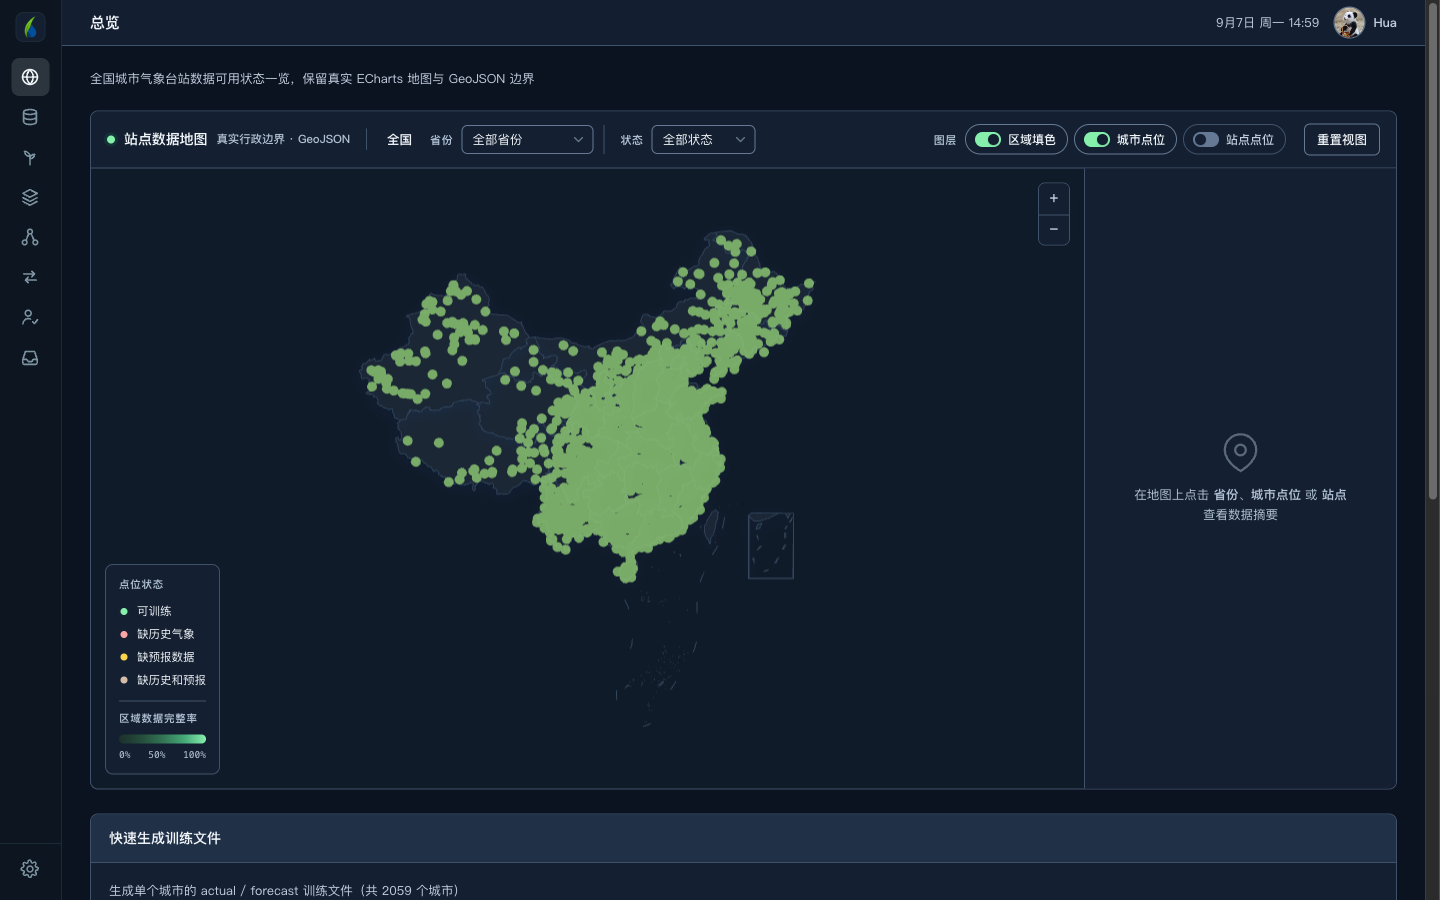
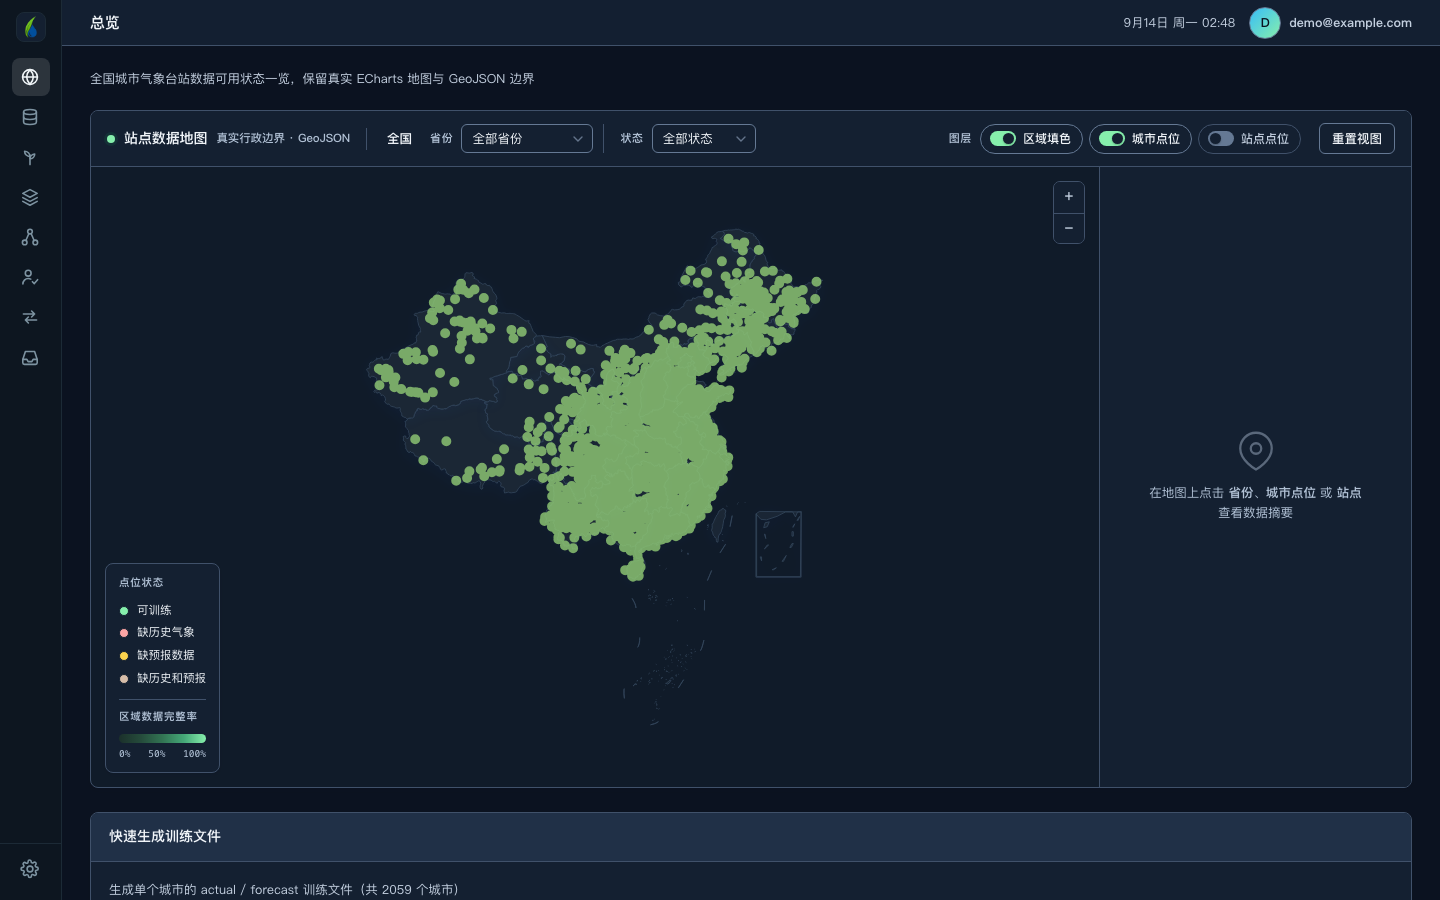
README：v1.0.3 功能说明与截图更新
Claude-Session: https://claude.ai/code/session_01J93EXCLc9bKMHBVUebiUPE

diff --git a/README.md b/README.md
@@ -20,6 +20,17 @@
 
 ---
 
+## v1.0.3 更新了什么
+
+- 训练可选两种模型
+- 人在回路可下载策略表（Excel）
+- 迁移学习更贴近本站
+- 浅色模式更完整
+- 导航顺序调整
+- 水分胁迫天数统计调整
+
+---
+
 ## 它解决什么问题
 
 稻田管水的核心是一个数：**田面水层深度**。它必须待在适宜区间内——低了缺水影响灌浆，高了淹水伤根系、影响成穗。
@@ -32,7 +43,7 @@
 
 # 怎么用
 
-下面按实际使用顺序走一遍。
+下面按实际使用顺序走一遍，左侧导航从上到下基本就是这个顺序。
 
 ## 第一步 · 总览：看哪些站点能训练
 
@@ -48,26 +59,43 @@
 
 ---
 
-## 第二步 · 生成训练数据
+## 第二步 · 生育期方案：定好每个阶段的水层
 
-确认站点有数据后，在总览下方生成训练文件。
+模型怎么管水，取决于每个生育期的水层参数。**生育期方案**页维护这些参数，一个方案对应一个地区、一个品种、一季稻。
+
+<div align="center">
+<img src="docs/screenshots/04-生育期方案.png" width="880" alt="生育期方案">
+</div>
+
+每个阶段包括：
+
+| 参数 | 含义 |
+|---|---|
+| 开始 / 结束 | 阶段起止日期（月/日） |
+| hmin / hmax | 适宜水层下限 / 上限（mm）：低于 hmin 需要灌水，灌到 hmax 为止 |
+| Hp | 雨后蓄水上限，超过应排水 |
+| Hc | 受涝警戒水层，超过会影响产量 |
+| Kc | 作物系数，用来计算作物需水 |
+| λ | 该阶段对缺水的敏感程度；晒田、黄熟落干期为 0 |
+
+- 阶段名称从下拉框选择（返青期、分蘖早期……），同一方案里已有的阶段不能重复添加。
+- 「AI 生成基准参数」可以按地点和作物先生成一版参考值，再手动修改。
+
+---
+
+## 第三步 · 生成训练数据
+
+选好站点和生育期方案后，在总览下方生成训练文件。
 
 <div align="center">
 <img src="docs/screenshots/02-数据生成.png" width="880" alt="数据生成">
 </div>
 
-**两种增广方式**，按需选择：
-
-| 方式 | 做法 | 适用 |
-|---|---|---|
-| **简单干湿增广** | 对真实年做 11 种情景变换（原样、+1～+5 mm、÷2～÷10） | 快速扩样，保持真实序列骨架 |
-| **Richardson WGEN** | 按历史生育季拟合逐月干湿日转移概率，湿日雨量用 Gamma 分布，ET₀ 按历日均值与变异合成 | 需要更多独立气象序列时 |
+训练数据统一用 **Richardson WGEN 天气发生器**生成：按站点全部历史生育季拟合逐月干湿日转移概率、湿日雨量（Gamma 分布）和 ET₀，合成大量独立的气象序列用于训练。历史真实年份单独保留，**只用来评估，不进入训练**。
 
 **支持多站点同时生成**。在「批量生成」区连续输入站名添加到列表，一次提交，后台排队处理，进度实时可见。2059 个城市任选。
 
----
-
-## 第三步 · 检查生成报告
+### 检查生成报告
 
 生成完到**数据生成**页核对，确认无误再拿去训练。
 
@@ -75,26 +103,56 @@
 <img src="docs/screenshots/03-生成报告.png" width="880" alt="生成报告">
 </div>
 
-每条记录都标明用的哪种增广、原始多少行、扩增后多少行、有多少缺失。可下载的文件包括：
+每条记录都标明原始多少行、训练用多少行、有多少缺失。可下载的文件包括：
 
-- `训练actual` / `训练forecast` —— 增广后的训练数据
-- `评估actual` / `评估forecast` —— 未经增广的真实序列，用于逐年评估
+- `训练actual` / `训练forecast` —— WGEN 合成的训练数据
+- `评估actual` / `评估forecast` —— 未经合成的真实序列，用于逐年评估
 - `growth_para` —— 生育期参数
-- `生成统计` / `方法说明` / `missing` —— 年份覆盖率、增广方法记录、缺失明细
-- WGEN 方式额外产出 `WGEN参数`（逐月拟合参数）
+- `生成统计` / `方法说明` / `missing` —— 年份覆盖率、生成方法记录、缺失明细
+- `WGEN参数` —— 逐月拟合参数
 
 **重点看 `missing` 和年份覆盖率**。某年覆盖率不足 70% 时软件会提示，可以在生成时勾掉那些年份。
 
 ---
 
-## 第四步 · 训练模型并查看结果
+## 第四步 · 历史数据：补录或下载气象数据
 
-数据没问题后进**智能决策**，选批次、设训练轮数（2000 / 5000 / 8000 或自填）和随机种子，启动 PPO 训练。
+<div align="center">
+<img src="docs/screenshots/05-历史数据.png" width="880" alt="历史数据">
+</div>
+
+- **上传录入**：下载模板，按 `Station/date/T/Tmax/Tmin/RH/P/u10/n`（或对应的中文表头：区站号、日期、平均气温……）填好后上传。新台站首次导入需要填经纬度和海拔，系统会据此计算 ET₀。
+- 重复导入同一台站同一日期会更新原记录，不会生成重复行。
+
+---
+
+## 第五步 · 训练模型：稳产模型与节水模型
+
+数据没问题后进**智能决策**，选批次和**模型类型**，设训练轮数（2000 / 5000 / 8000 或自填）和随机种子，启动 PPO 训练。
+
+<div align="center">
+<img src="docs/screenshots/06-训练与模型库.png" width="880" alt="训练与模型库">
+</div>
+
+| 模型类型 | 适合 | 特点 |
+|---|---|---|
+| **稳产模型**（默认） | 优先保证产量 | 严格守住适宜水层，灌溉次数相对多、每次水量相对少 |
+| **节水模型** | 希望省水、少下田操作 | 奖励里对每次灌排操作和用水量扣分，倾向于少次、每次多灌，总用水更少 |
+
+两种模型只是奖励不同，其他训练设置完全一样。以武汉晚稻（泰优398）为例，训练 5000 回合、用历史真实年份逐年评估的平均值：
+
+| | 灌水量 | 排水量 | 灌溉次数 | 缺水风险因子 |
+|---|---|---|---|---|
+| 固定水层规则 | 293 mm | 178 mm | 8.0 次 | 100% |
+| 稳产模型 | 259 mm | 99 mm | 7.4 次 | 100% |
+| 节水模型 | 224 mm | 67 mm | 4.1 次 | 100% |
+
+> 不同站点效果会有差别，建议两种都训练，在整季评估里比较后再选用。
 
 > **这一步建议用本地软件。** 网页版的训练跑在服务器上，多人同时训练会排队；本地软件用你自己电脑的算力。5000 回合在普通笔记本上约需十几分钟。
 
 <div align="center">
-<img src="docs/screenshots/04-训练与评估.png" width="880" alt="训练与评估">
+<img src="docs/screenshots/08-训练评估.png" width="880" alt="训练结果与评估">
 </div>
 
 训练全过程可视：
@@ -102,56 +160,87 @@
 - **奖励曲线** —— 逐回合回报、平滑曲线、历史最高
 - **操作次数曲线** —— 灌排动作次数随训练下降的过程
 - **收敛诊断** —— 末段斜率、平滑带宽、前后百回合对比，自动判断是否趋于稳定
-- **策略对比** —— 十余项指标与固定水层规则并排：灌溉量、排水量、灌排次数、降雨利用率、缺水产量影响风险因子、超 Hc 天数与深度–日积分、管理水量等，每项标出相对变化
+- **策略对比** —— 十余项指标与固定水层规则并排：灌溉量、排水量、灌排次数、降雨利用率、缺水风险因子、水分胁迫天数、超 Hc 天数与深度–日积分、管理水量等，每项标出相对变化；可在 best / final 模型之间切换
 
-**结果的应用与下载**：训练好的模型进入模型库，点「部署best」即可用于实时决策；可下载 `best` / `final` 权重、逐日评估 CSV、图表 PNG，以及一份完整的 **Word 训练报告**。
+**结果的应用与下载**：训练好的模型进入模型库，可「部署best」或「部署final」用于实时决策；可下载 `best` / `final` 权重、逐日评估 CSV、图表图片，以及一份完整的 **Word 训练报告**。
 
-**智能助手**：右下角的对话框可就农田水利问题提问，支持拖拽上传文档。普通研究员账号每天 3 次。
+**智能助手**：页面里的对话框可就农田水利、天气、灌溉决策提问，支持上传附件。
 
 ---
 
-## 第五步 · 没有数据的地方怎么办：迁移学习
+## 第六步 · 智能决策引擎：今天该怎么灌
 
-不是每个站点都有完整的历史气象。**迁移学习**页解决这个问题——内置全国六大稻作区（华南 / 华中 / 西南高原 / 华北 / 东北 / 西北）的 18 个预训练权重，**不用训练直接出决策**。
+部署模型后，下面的**智能决策引擎**就用这个模型出建议：填当前田面水层，选生育期方案和阶段，填未来七天天气（也可以输入城市自动导入预报），点「生成建议」。
 
 <div align="center">
-<img src="docs/screenshots/05-迁移学习决策.png" width="880" alt="迁移学习决策">
+<img src="docs/screenshots/07-智能决策引擎.png" width="880" alt="智能决策引擎">
+</div>
+
+上图：武汉晚稻分蘖早期，当前水层 12 mm，低于适宜下限 20 mm，模型建议**灌水 38 mm** 到 50 mm。右侧给出：
+
+- 结论与置信度、Top-3 候选动作、操作前后水层；
+- **可解释决策卡**：当前判断、主要依据、风险提示（灌后遇雨、不灌等雨但无雨）、推荐操作；
+- 不认可时可以直接「进入人在回路」记录修正。
+
+---
+
+## 第七步 · 人在回路：把你的经验喂回模型
+
+模型再好也不一定完全贴合本地实际。**人在回路**页让你逐日核对模型建议，把修正意见反馈给模型。
+
+<div align="center">
+<img src="docs/screenshots/09-人在回路.png" width="880" alt="人在回路">
+</div>
+
+1. **生成模型建议**：选模型和年份，填**初始水层**（这一季开始时田里的水层），表格逐日列出当天水层、适宜区间、预报/实测雨量、模型决策、实际执行和奖励。
+2. **问题检测**：自动标出不合理操作——连续小额、晒田补水、微操作、守卫强制。点「一键建议修正」会把修正建议预填到「期望动作」，每改一处都按修正后的动作重算后面的水层。
+3. **提交反馈与微调**：逐条确认或修改「期望动作」，提交本年反馈；各年都提交后「开始微调」，完成后自动生成**固定规则、原模型、微调后**三方对比，可导出报告。
+4. **下载策略表（Excel）**：按填写的初始水层和所选年份（或全部年份）导出逐日策略，包含「逐日策略」「逐年汇总」「导出条件」三张表；表格里已经做的修正会一并算进去，方便线下核对和存档。
+
+「启用规则修正」表示水层超过 Hc 时软件强制排水；想看模型自己的原始决策，可以取消勾选。勾选「显示掩码/守卫分层与奖励分量」可以展开更细的诊断。
+
+---
+
+## 第八步 · 没有数据的地方怎么办：迁移学习
+
+不是每个站点都有完整的历史气象。**迁移学习**页内置全国六大稻作区（华南 / 华中 / 西南高原 / 华北 / 东北 / 西北）的 18 个预训练模型，**不用训练直接出决策**。
+
+<div align="center">
+<img src="docs/screenshots/10-迁移学习决策.png" width="880" alt="迁移学习决策">
 </div>
 
 **怎么用**：
 
-1. 站点框直接打字，输入站名或省份，从下拉里选。**全国 2311 个台站都支持**，不在名册内的按地理最近邻自动归区，不会出现"该站不可用"
-2. 生育期制度可选，也可让软件按决策日期自动判定生育期
-3. 填当前田面水层，未来七天天气可手选，也可点「抓取该站预报」自动获取
+1. 站点框直接打字，输入站名或省份，从下拉里选。**全国 2311 个台站都支持**，不在名册内的按地理最近邻自动归区
+2. 「生育期制度」与「生育期方案」页同步，默认用该站所在地区的方案，也可以换
+3. 填当前田面水层、决策日期，未来七天天气可手选，也可点「抓取该站预报」
 4. 点「生成灌排决策」
 
-上图是阳新站的一次实际决策：当前水层 72 mm，模型建议**排水 22 mm**降到 50 mm。左边标尺画出 hmin / hmax / Hp / Hc 四条线和水层位置，右边给出置信度与候选动作概率——能看懂为什么这么建议，不是黑箱数字。
+上图：阳新站当前水层 72 mm，模型建议**排水 22 mm** 降到 50 mm。左边标尺画出 hmin / hmax / Hp / Hc 和操作前后的水层，右边给出置信度与候选动作概率——能看懂为什么这么建议，不是黑箱数字。
+
+**建立本站模型**：选定站点和生育期方案后点「建立本站模型」，软件用该站同一方案的训练数据（没有会自动生成）把迁移学习模型保存为一个本站模型。它会出现在模型库里，可以进人在回路逐日查看、修正并微调，得到更贴合本站的新模型。
 
 ### 怎么看效果
 
-点「整季评估」，用该站 2013–2020 的真实历史逐年回算，把模型和对照策略并排比较。
+点「整季评估」，用该站真实历史逐年回算，把迁移学习模型和对照策略并排比较。
 
 <div align="center">
-<img src="docs/screenshots/06-整季评估.png" width="880" alt="整季评估">
+<img src="docs/screenshots/11-迁移学习整季评估.png" width="880" alt="迁移学习整季评估">
 </div>
 
-默认对比**固定水层规则**，也可切换到干湿交替灌溉、预报排水规则、预报灌排联合规则等。图表与表格联动，逐年可查。
+- 页面底部会标明这次用的是哪份数据（所选方案的本站数据，或论文站点数据）。
+- 「对比」可选固定水层规则、预报排水规则（保守 / 中等 / 激进）；如果模型库里有用该站数据训练的 PPO 模型，还会出现「本站PPO」，可以直接比较迁移学习模型和本站训练的模型。
+- 图表与逐年表格联动。
 
 ---
 
-## 第六步 · 人在回路：把你的经验喂回模型
+## 界面外观
 
-模型再好也不一定完全贴合本地实际。**人在回路**页让你逐日核对模型建议与实际执行，把修正意见反馈给模型。
+默认深色。左下角齿轮里可以切换**深色模式**、**显示导航名称**、**侧栏布局**；切到浅色时，左侧导航栏和窗口标题栏一起变浅。
 
 <div align="center">
-<img src="docs/screenshots/07-人在回路.png" width="880" alt="人在回路">
+<img src="docs/screenshots/12-浅色模式.png" width="880" alt="浅色模式">
 </div>
-
-表格逐日列出当天水层、雨量（预报/实测）、模型决策、实际执行、奖励。模型决策与实际执行不同时标「已改」，便于快速定位分歧。
-
-在「期望动作」列选出你认为正确的动作，加备注，提交反馈后启动**行为克隆微调**。微调完成自动生成**固定规则、原 PPO、微调后**三方对比，可导出图片与报告。
-
-勾选「显示掩码/守卫分层与奖励分量」可展开更细的诊断：掩码后动作、安全守卫动作、规则/缺水/受涝/动作四项奖励分量、ET₀。
 
 ---
 
@@ -163,9 +252,10 @@
 |---|---|---|
 | 打开方式 | 浏览器直接用，不用安装 | 下载安装，约 200–240 MB |
 | 查看站点数据、地图 | ✅ | ✅ |
-| 迁移学习决策、整季评估 | ✅ | ✅ |
+| 智能决策、迁移学习决策、整季评估 | ✅ | ✅ |
 | **训练 PPO 模型** | ⚠ **跑在服务器上，多人同时训练会排队甚至卡住** | ✅ **用本机算力，不排队** |
 | 数据生成（尤其批量多站点） | ⚠ 同上，占用服务器 | ✅ 本机跑 |
+| 人在回路微调 | ⚠ 同上 | ✅ 本机跑 |
 | 训练结果存放 | 服务器 | 你自己的电脑 |
 
 **结论**：只是想看看效果、查数据、出几条灌排决策 —— 用[网页版](https://app.paddy-intelligence.xyz)最省事。
@@ -219,28 +309,12 @@ Get-ChildItem -Path '解压目录' -Recurse | Unblock-File
 # 账号
 
 - **注册**：首次使用在登录页点「创建账号」，填邮箱、显示名与密码。注册成功自动登录。
-- **忘记密码**：登录页点「忘记密码？」，输入注册邮箱，系统会把**临时密码发到该邮箱**；用临时密码登录后请在「账户设置 → 修改密码」尽快改掉。
+- **忘记密码**：登录页点「忘记密码？」，输入注册邮箱，系统会把**重置密码的链接**发到该邮箱，30 分钟内有效，点开后设置新密码。
 - **修改密码 / 头像**：在「账户设置」中随时修改。
 
 首次启动需约 20 秒准备本地数据库。**无需自行配置任何密钥或路径。**
 
----
-
-# 账号与数据权限
-
 软件自带 2311 个台站的基础信息和全部迁移学习模型权重，**离线状态下当日灌排决策照常可用**。
-
-历史气象数据用于整季评估、模型训练和数据生成，按账号角色开放：
-
-| 角色 | 模型使用 | 历史数据下载 |
-|---|---|---|
-| 普通研究员 | ✅ 全部功能 | ❌ 不开放 |
-| 管理员 | ✅ | 10 个台站 |
-| 超级管理员 | ✅ | 不限 |
-
-**普通研究员账号可以正常使用全部模型功能**（迁移学习决策、已有数据的训练与评估、人在回路），只是不能批量下载历史气象数据。
-
-如需额外权限，请联系 **华克骥 · <huakeji2000@whu.edu.cn>**。
 
 ---
 
@@ -265,9 +339,13 @@ Get-ChildItem -Path '解压目录' -Recurse | Unblock-File
 
 **macOS 提示「Apple 无法验证」打不开** / **Windows 报 `Failed to resolve Python.Runtime.Loader.Initialize`** — 均为未签名或下载文件被系统拦截所致，按上方[首次打开](#首次打开被系统拦下属正常现象)放行一次即可。
 
+**稳产模型和节水模型该选哪个** — 优先保产量选稳产模型；想省水、少下田操作选节水模型。不确定时两种都训练，在整季评估里比较。
+
+**下载文件时没有反应** — 本地软件会弹出系统的保存对话框，选好位置保存即可；如果对话框被其他窗口挡住，切换一下窗口。
+
 **智能助手提示次数用完** — 每日有使用额度，次日自动恢复。
 
-**整季评估提示「暂无历史逐日数据」** — 该站点本地没有历史序列。当日灌排决策不受影响；需要整季评估请参见下方[账号与数据权限](#账号与数据权限)。
+**整季评估提示「暂无历史逐日数据」** — 该站点本地没有历史序列，当日灌排决策不受影响。
 
 ---
 
@@ -279,6 +357,7 @@ Get-ChildItem -Path '解压目录' -Recurse | Unblock-File
 |---|---|
 | `YRF_drought` | **缺水产量影响风险因子**，越接近 100% 表示缺水影响风险越低。**不是实测产量** |
 | `Fs` | **受涝产量影响风险敏感性**。**不是实测产量** |
+| 水分胁迫天数 | 田间缺水、作物耗水受限的天数，只统计对产量敏感的生育期（不含晒田、黄熟落干期） |
 | 超 Hc 深度–日积分 | Σmax(日末水层 − Hc, 0)，受涝暴露的诊断量 |
 | 管理水量 | 灌溉量与排水量之和的派生指标 |
 | ET₀ | 参考作物蒸散量 |
